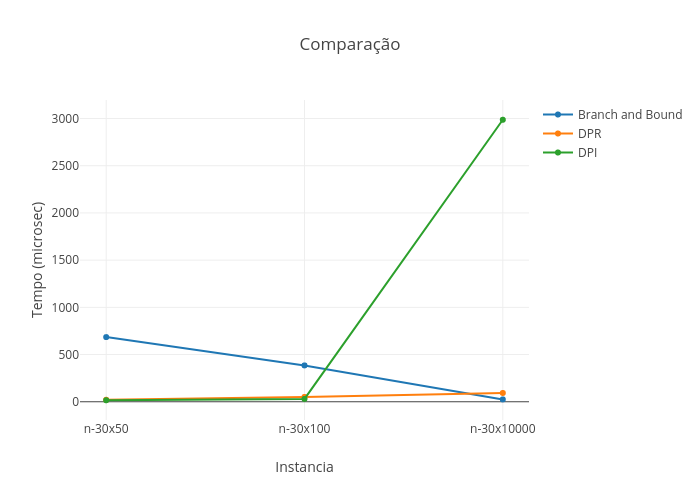
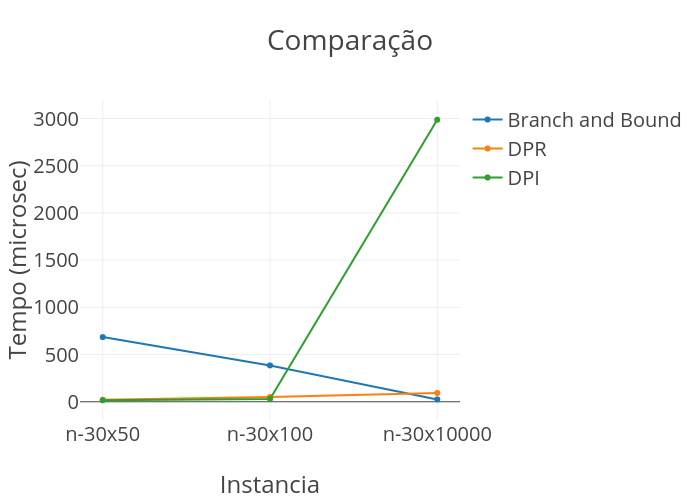
Graficos com fonte maior

diff --git a/data/graphs/ploter.js b/data/graphs/ploter.js
@@ -82,6 +82,9 @@ var layout = {
     },
     yaxis: {
         title: "Tempo (microsec)"
+    },
+    font: {
+        size: 20,
     }
 };
 var graphOptions = {layout: layout, filename: "bb_graph", fileopt: "overwrite"};
@@ -106,6 +109,9 @@ var layout = {
     },
     yaxis: {
         title: "Tempo (microsec)"
+    },
+    font: {
+        size: 20,
     }
 };
 var graphOptions = {layout: layout, filename: "recursive_graph", fileopt: "overwrite"};
@@ -130,6 +136,9 @@ var layout = {
     },
     yaxis: {
         title: "Tempo (microsec)"
+    },
+    font: {
+        size: 20,
     }
 };
 var graphOptions = {layout: layout, filename: "iterative_graph", fileopt: "overwrite"};
@@ -153,6 +162,9 @@ var layoutGeral = {
         title: {
             text: "Tempo (microsec)"
         }
+    },
+    font: {
+        size: 20,
     }
 };
 
